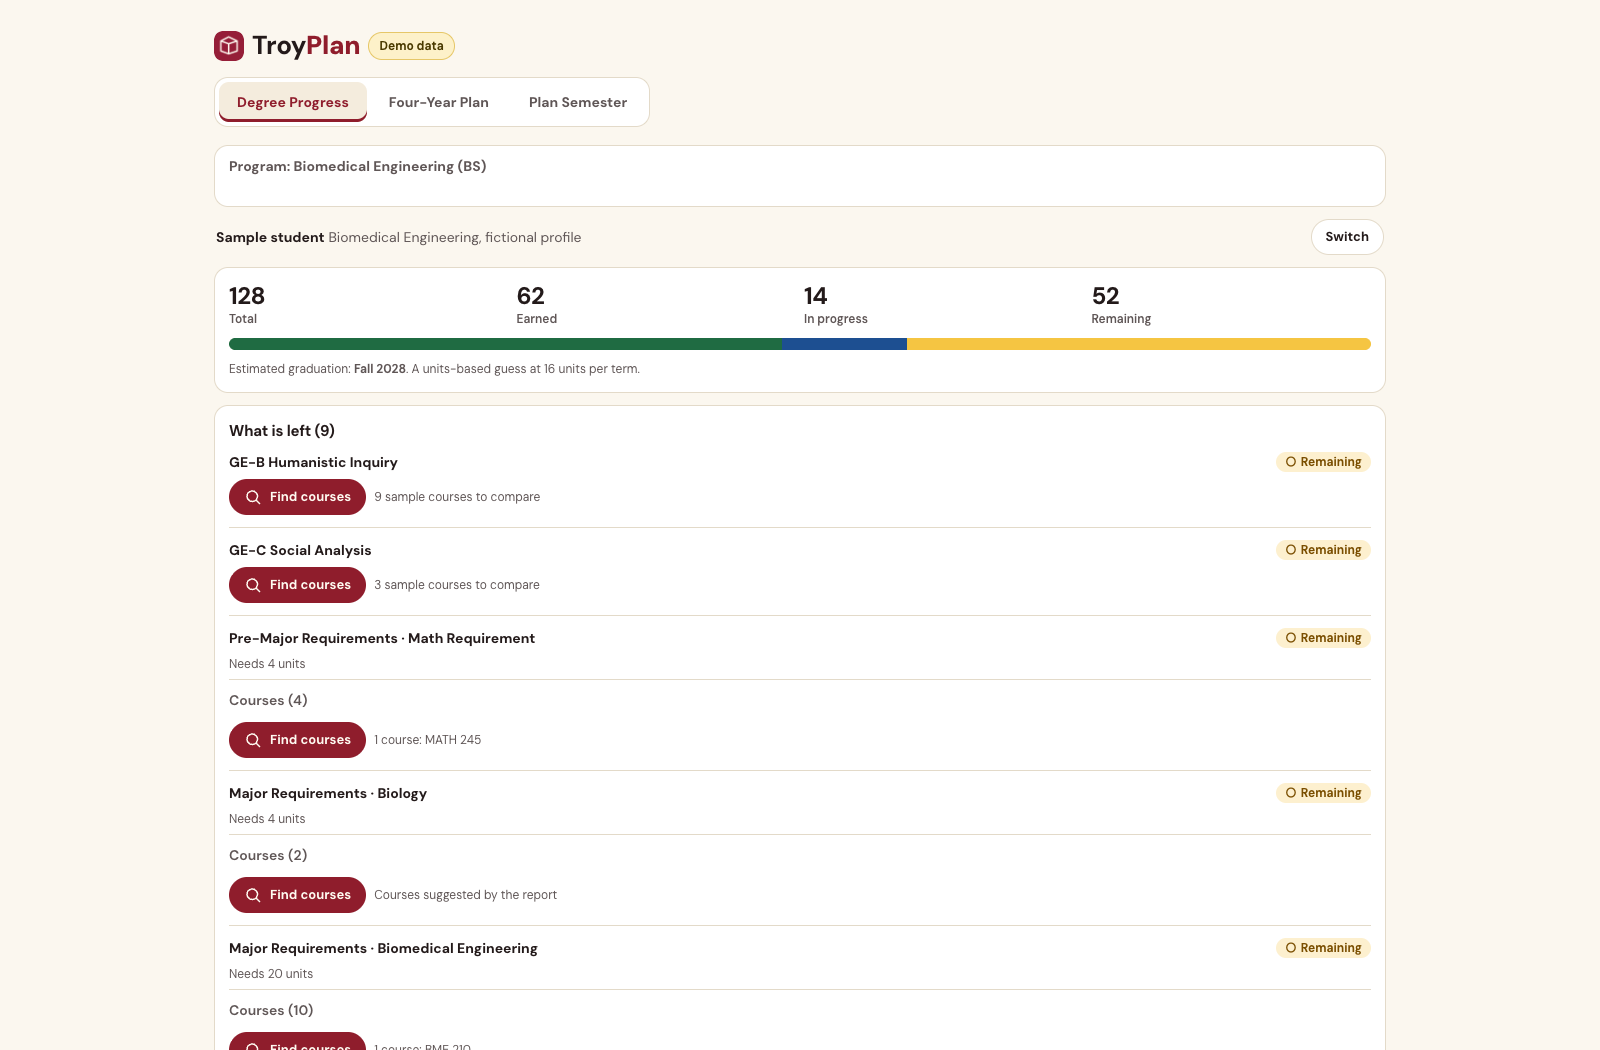
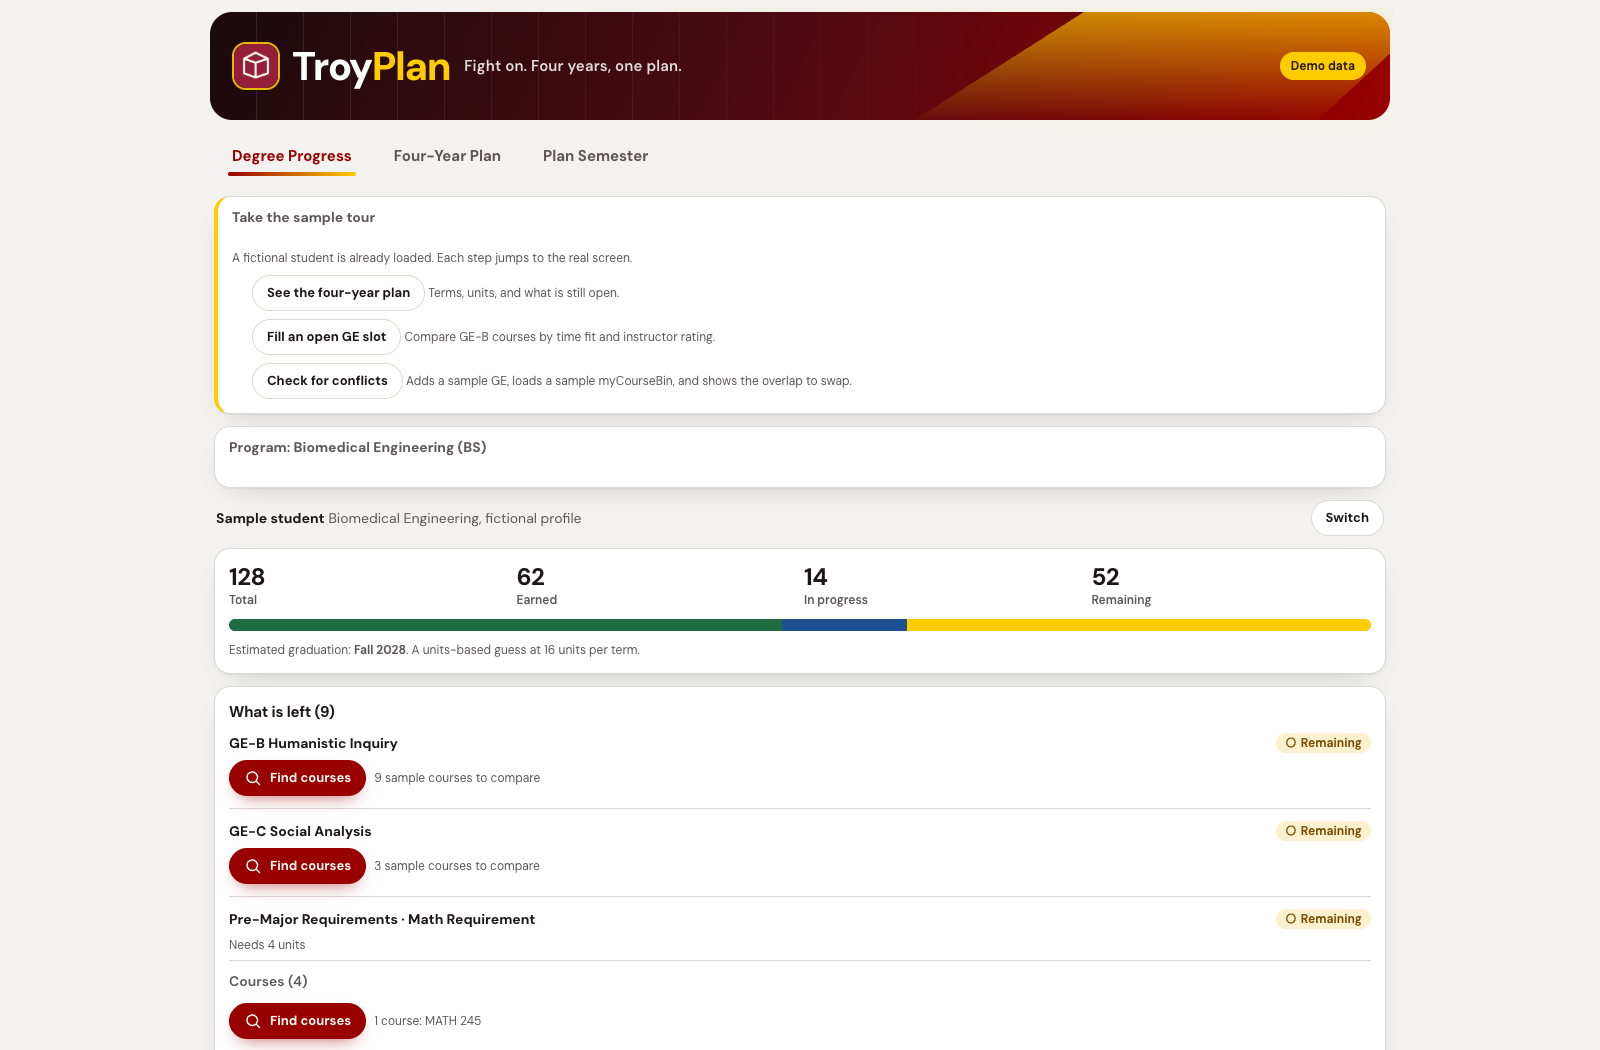
Refresh product screenshots and Devpost captions for the updated website

diff --git a/docs/DEVPOST-CAPTIONS.md b/docs/DEVPOST-CAPTIONS.md
@@ -1,0 +1,28 @@
+# TroyPlan — Devpost screenshot captions
+
+Suggested gallery order: 01 → 05. All screenshots use the fictional demo student. Professor ratings in the demo are sample data, and future terms are estimates.
+
+## 1. Know what is left
+File: [Screenshot](images/degree-progress.png)
+
+See earned, in-progress, and remaining units alongside a checklist of degree requirements, then find courses for what is still unmet.
+
+## 2. See the path to graduation
+File: [Screenshot](images/four-year-plan.png)
+
+Drag future courses between terms, inspect prerequisites, and connect completed, registered, and estimated coursework in one graduation roadmap.
+
+## 3. Find a GE that fits your life
+File: [Screenshot](images/ge-finder.png)
+
+Turn a scheduling goal into editable filters, then compare GE courses by requirement, meeting time, unit limit, and clearly labeled sample professor ratings.
+
+## 4. Catch conflicts before registration
+File: [Screenshot](images/conflict-check.png)
+
+Compare a proposed schedule with saved myCourseBin sections to reveal overlapping meetings and find an alternate section.
+
+## 5. Turn the plan into a workable week
+File: [Screenshot](images/semester-plan.png)
+
+After a section swap clears the demonstrated conflict, the calendar shows planned, registered, and saved courses together.
